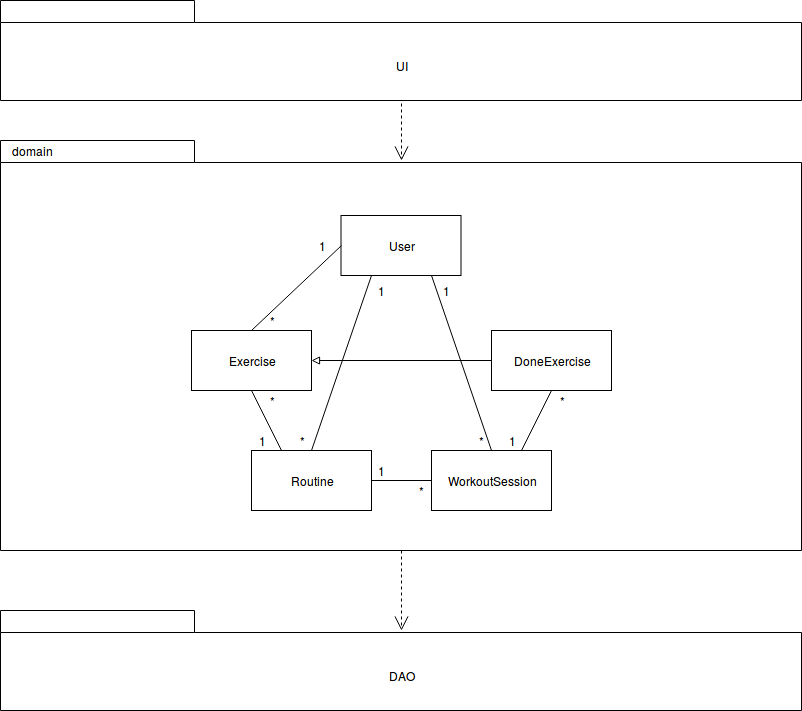
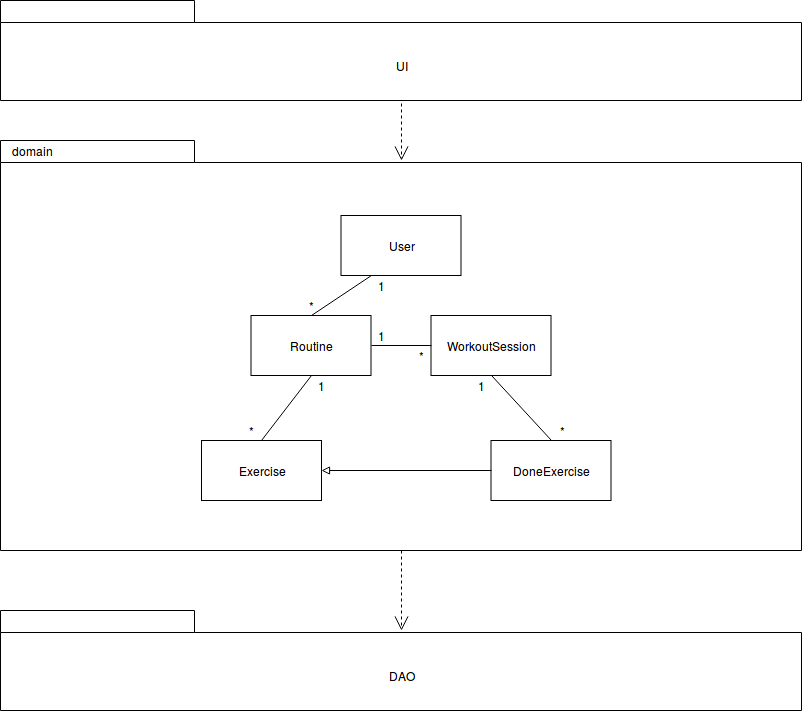
refactor: remove excessive connections to user

diff --git a/worksheetout/src/test/java/worksheetout/domain/ExerciseTest.java b/worksheetout/src/test/java/worksheetout/domain/ExerciseTest.java
@@ -10,7 +10,6 @@ import org.junit.Test;
 import static org.junit.Assert.*;
 
 public class ExerciseTest {
-    User u1;
     Exercise exerciseNoIdNoParameters;
     Exercise exerciseIdNoParameters;
     Exercise exerciseNoIdParameters;
@@ -18,11 +17,10 @@ public class ExerciseTest {
     
     @Before
     public void setUp() {
-        u1 = new User("tester", "Terttu");
-        exerciseNoIdNoParameters = new Exercise("squat", u1);
-        exerciseIdNoParameters = new Exercise(1, "deadlift", u1);
-        exerciseNoIdParameters = new Exercise("calf raise", u1, "kg", "repetitions");
-        exerciseIdParameters = new Exercise(2, "legpress", u1, "kg", "repetitions");
+        exerciseNoIdNoParameters = new Exercise("squat");
+        exerciseIdNoParameters = new Exercise(1, "deadlift");
+        exerciseNoIdParameters = new Exercise("calf raise", "kg", "repetitions");
+        exerciseIdParameters = new Exercise(2, "legpress", "kg", "repetitions");
     }
     
     @Test
@@ -68,19 +66,14 @@ public class ExerciseTest {
     }
     
     @Test
-    public void userIsCorrect() {
-        assertTrue(exerciseNoIdNoParameters.getUser().equals(u1));
-    }
-    
-    @Test
     public void equalWhenSameName() {
-        Exercise e = new Exercise("squat", u1);
+        Exercise e = new Exercise("squat");
         assertTrue(e.equals(exerciseNoIdNoParameters));
     }
     
     @Test
     public void nonEqualWhenDifferentUsername() {
-        Exercise e = new Exercise("squat", u1);
+        Exercise e = new Exercise("squat");
         assertFalse(e.equals(exerciseIdNoParameters));
     }
     

diff --git a/worksheetout/src/main/java/worksheetout/domain/Exercise.java b/worksheetout/src/main/java/worksheetout/domain/Exercise.java
@@ -11,31 +11,26 @@ public class Exercise {
 
     private int id;
     private String name;
-    private User user;
     private List<String> parameterNames = new ArrayList<>();
 
-    public Exercise(int id, String newName, User newUser) {
+    public Exercise(int id, String newName) {
         this.id = id;
         this.name = newName;
-        this.user = newUser;
     }
     
-    public Exercise(String newName, User newUser) {
+    public Exercise(String newName) {
         this.name = newName;
-        this.user = newUser;
     }
     
-    public Exercise(int id, String newName, User newUser, String parameter1, String parameter2) {
+    public Exercise(int id, String newName, String parameter1, String parameter2) {
         this.id = id;
         this.name = newName;
-        this.user = newUser;
         this.parameterNames.add(parameter1);
         this.parameterNames.add(parameter2);
     }
     
-    public Exercise(String newName, User newUser, String parameter1, String parameter2) {
+    public Exercise(String newName, String parameter1, String parameter2) {
         this.name = newName;
-        this.user = newUser;
         this.parameterNames.add(parameter1);
         this.parameterNames.add(parameter2);
     }
@@ -55,10 +50,6 @@ public class Exercise {
 
     public String getName() {
         return this.name;
-    }
-
-    public User getUser() {
-        return this.user;
     }
 
     public int getId() {

diff --git a/worksheetout/src/main/java/worksheetout/domain/DoneExercise.java b/worksheetout/src/main/java/worksheetout/domain/DoneExercise.java
@@ -12,24 +12,8 @@ public class DoneExercise extends Exercise {
 
     private Map<String, Integer> parameterValues = new HashMap<>();
     
-//    public DoneExercise(int newId, String newName, User newUser, List<String> parameterNames, List<Integer> values) {
-//        super(newId, newName, newUser);
-//        
-//        for (int i = 0; i < parameterNames.size(); i++) {
-//            this.parameterValues.put(parameterNames.get(i), values.get(i));
-//        }
-//    }
-//    
-//    public DoneExercise(String newName, User newUser, List<String> parameterNames, List<Integer> values) {
-//        super(newName, newUser);
-//        
-//        for (int i = 0; i < parameterNames.size(); i++) {
-//            this.parameterValues.put(parameterNames.get(i), values.get(i));
-//        }
-//    }
-    
     public DoneExercise(Exercise exercise, List<Integer> values) {
-        super(exercise.getName(), exercise.getUser(), exercise.getParameters().get(0), exercise.getParameters().get(1));
+        super(exercise.getName(), exercise.getParameters().get(0), exercise.getParameters().get(1));
         
         for (int i = 0; i < super.getParameters().size(); i++) {
             this.parameterValues.put(super.getParameters().get(i), values.get(i));

diff --git a/worksheetout/src/main/java/worksheetout/domain/WorkoutSession.java b/worksheetout/src/main/java/worksheetout/domain/WorkoutSession.java
@@ -13,21 +13,18 @@ import java.util.Map;
 public class WorkoutSession {
 
     private int id;
-    private User user;
     private Date date;
     private Routine routine;
     private List<DoneExercise> sessionContents;
 
     public WorkoutSession(int id, Date newDate, Routine newRoutine) {
         this.id = id;
-        this.user = newRoutine.getUser();
         this.date = newDate;
         this.routine = newRoutine;
         this.sessionContents = new ArrayList<>();
     }
     
     public WorkoutSession(Date newDate, Routine newRoutine) {
-        this.user = newRoutine.getUser();
         this.date = newDate;
         this.routine = newRoutine;
         this.sessionContents = new ArrayList<>();
@@ -61,10 +58,6 @@ public class WorkoutSession {
     
     public void setDate(Date newDate) {
         this.date = newDate;
-    }
-
-    public User getUser() {
-        return this.user;
     }
 
     public int getId() {

diff --git a/worksheetout/src/main/java/worksheetout/ui/TestUI.java b/worksheetout/src/main/java/worksheetout/ui/TestUI.java
@@ -43,7 +43,7 @@ public class TestUI {
             System.out.print("second parameter (eg. repetitions, minutes): ");
             String parameter2 = reader.nextLine();
             
-            Exercise exercise = new Exercise(exerciseName, user, parameter1, parameter2);
+            Exercise exercise = new Exercise(exerciseName, parameter1, parameter2);
             firstRoutine.addOneExercise(exercise);
             
             System.out.println("Press enter if you want to add another exercise. Otherwise, type any letter and press enter.");

diff --git a/worksheetout/src/test/java/worksheetout/domain/DoneExerciseTest.java b/worksheetout/src/test/java/worksheetout/domain/DoneExerciseTest.java
@@ -12,15 +12,13 @@ import org.junit.Test;
 import static org.junit.Assert.*;
 
 public class DoneExerciseTest {
-    User u1;
     DoneExercise doneExercise;
     Exercise exercise;
     List<Integer> values;
     
     @Before
     public void setUp() {
-        u1 = new User("tester", "Terttu");
-        exercise = new Exercise("calf raise", u1, "kg", "repetitions");
+        exercise = new Exercise("calf raise", "kg", "repetitions");
         values = new ArrayList<>();
         values.add(70);
         values.add(30);

diff --git a/worksheetout/src/main/java/worksheetout/domain/Routine.java b/worksheetout/src/main/java/worksheetout/domain/Routine.java
@@ -60,7 +60,7 @@ public class Routine {
     }
     
     public Exercise getOneExercise(String name) {
-        Exercise exerciseToFind = new Exercise(name, this.user);
+        Exercise exerciseToFind = new Exercise(name);
         return this.exercises.get(this.exercises.indexOf(exerciseToFind));
     }
 
